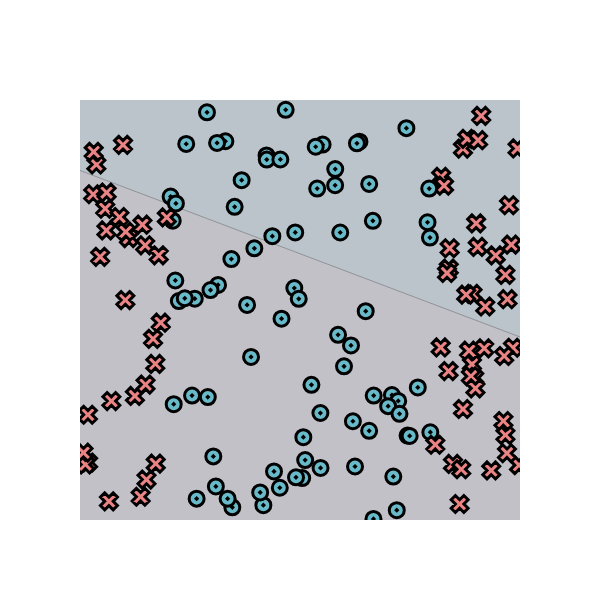
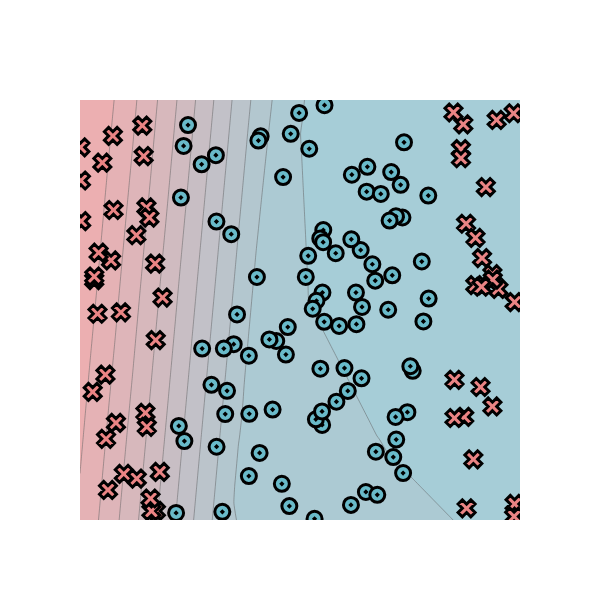
change png in readme

Changed region(s): [[0.12, 0.15, 0.87, 0.87]]

diff --git a/README.md b/README.md
@@ -132,58 +132,59 @@ Epoch: 500/500, loss: 17.285960865418502, correct: 146
 ## Split
 PTS = 150, HIDDEN = 4, RATE = 0.5
 ![](./split.png)
+![](./split_loss.png)
 ```
 Epoch: 0/500, loss: 0, correct: 0
-Epoch: 10/500, loss: 105.40956806695668, correct: 82
-Epoch: 20/500, loss: 105.16311977665919, correct: 77
-Epoch: 30/500, loss: 105.0358300131099, correct: 74
-Epoch: 40/500, loss: 104.95398700149673, correct: 73
-Epoch: 50/500, loss: 104.89481482035535, correct: 73
-Epoch: 60/500, loss: 104.84504207500366, correct: 73
-Epoch: 70/500, loss: 104.79972409122652, correct: 72
-Epoch: 80/500, loss: 104.75396865967625, correct: 72
-Epoch: 90/500, loss: 104.71048725100809, correct: 72
-Epoch: 100/500, loss: 104.67080217413678, correct: 72
-Epoch: 110/500, loss: 104.63259713965485, correct: 72
-Epoch: 120/500, loss: 104.59375666925584, correct: 72
-Epoch: 130/500, loss: 104.55585767889825, correct: 72
-Epoch: 140/500, loss: 104.52433422140477, correct: 72
-Epoch: 150/500, loss: 104.49319208765563, correct: 72
-Epoch: 160/500, loss: 104.46285701189619, correct: 72
-Epoch: 170/500, loss: 104.43408621776575, correct: 72
-Epoch: 180/500, loss: 104.40848477159437, correct: 73
-Epoch: 190/500, loss: 104.38365073874444, correct: 74
-Epoch: 200/500, loss: 104.35909308884713, correct: 74
-Epoch: 210/500, loss: 104.33432688684658, correct: 73
-Epoch: 220/500, loss: 104.31121792003513, correct: 74
-Epoch: 230/500, loss: 104.28894260939825, correct: 74
-Epoch: 240/500, loss: 104.26810375377413, correct: 74
-Epoch: 250/500, loss: 104.2465353220808, correct: 75
-Epoch: 260/500, loss: 104.22394025051658, correct: 75
-Epoch: 270/500, loss: 104.20175872057037, correct: 75
-Epoch: 280/500, loss: 104.18100673407336, correct: 77
-Epoch: 290/500, loss: 104.15987100243383, correct: 77
-Epoch: 300/500, loss: 104.13818414814992, correct: 77
-Epoch: 310/500, loss: 104.11663697207553, correct: 77
-Epoch: 320/500, loss: 104.09434774635291, correct: 78
-Epoch: 330/500, loss: 104.06665426516868, correct: 78
-Epoch: 340/500, loss: 104.03027258686207, correct: 78
-Epoch: 350/500, loss: 103.98594111920323, correct: 79
-Epoch: 360/500, loss: 103.94740283653357, correct: 79
-Epoch: 370/500, loss: 103.90480104288568, correct: 79
-Epoch: 380/500, loss: 103.86236353474646, correct: 81
-Epoch: 390/500, loss: 103.8206408533459, correct: 81
-Epoch: 400/500, loss: 103.75241333412129, correct: 81
-Epoch: 410/500, loss: 103.63110938448062, correct: 82
-Epoch: 420/500, loss: 103.52996695460521, correct: 84
-Epoch: 430/500, loss: 103.47187029948928, correct: 83
-Epoch: 440/500, loss: 103.42782647732716, correct: 83
-Epoch: 450/500, loss: 103.38783502819425, correct: 83
-Epoch: 460/500, loss: 103.34956202837746, correct: 83
-Epoch: 470/500, loss: 103.3134220690924, correct: 83
-Epoch: 480/500, loss: 103.27849663120747, correct: 84
-Epoch: 490/500, loss: 103.2434219712971, correct: 84
-Epoch: 500/500, loss: 103.20812583678166, correct: 85
+Epoch: 10/500, loss: 111.52667867392988, correct: 58
+Epoch: 20/500, loss: 101.25873741708465, correct: 119
+Epoch: 30/500, loss: 98.3395717965641, correct: 92
+Epoch: 40/500, loss: 97.42557925669496, correct: 92
+Epoch: 50/500, loss: 97.08929791142359, correct: 92
+Epoch: 60/500, loss: 96.8350050637598, correct: 92
+Epoch: 70/500, loss: 96.59423058539409, correct: 92
+Epoch: 80/500, loss: 96.34906545812032, correct: 92
+Epoch: 90/500, loss: 96.10289957997813, correct: 92
+Epoch: 100/500, loss: 95.84424101986326, correct: 92
+Epoch: 110/500, loss: 95.58949583727698, correct: 92
+Epoch: 120/500, loss: 95.32876936318844, correct: 92
+Epoch: 130/500, loss: 95.05943796636899, correct: 92
+Epoch: 140/500, loss: 94.78422342264645, correct: 93
+Epoch: 150/500, loss: 94.50723899255476, correct: 95
+Epoch: 160/500, loss: 94.22450597534127, correct: 95
+Epoch: 170/500, loss: 93.9391324316373, correct: 100
+Epoch: 180/500, loss: 93.64700697414804, correct: 102
+Epoch: 190/500, loss: 93.3469651563991, correct: 104
+Epoch: 200/500, loss: 93.0416072670887, correct: 105
+Epoch: 210/500, loss: 92.72989034091306, correct: 108
+Epoch: 220/500, loss: 92.41318264453852, correct: 110
+Epoch: 230/500, loss: 92.0921211893013, correct: 113
+Epoch: 240/500, loss: 91.76868472672507, correct: 114
+Epoch: 250/500, loss: 91.44079004597793, correct: 114
+Epoch: 260/500, loss: 91.10593189940471, correct: 116
+Epoch: 270/500, loss: 90.76759924933465, correct: 116
+Epoch: 280/500, loss: 90.42895895627998, correct: 116
+Epoch: 290/500, loss: 90.08723894257103, correct: 117
+Epoch: 300/500, loss: 89.7419227915818, correct: 119
+Epoch: 310/500, loss: 89.39444322770568, correct: 118
+Epoch: 320/500, loss: 89.04118073715604, correct: 118
+Epoch: 330/500, loss: 88.68296506377422, correct: 118
+Epoch: 340/500, loss: 88.32958824267476, correct: 118
+Epoch: 350/500, loss: 87.9750391800167, correct: 118
+Epoch: 360/500, loss: 87.61562583599726, correct: 119
+Epoch: 370/500, loss: 87.25792446463507, correct: 120
+Epoch: 380/500, loss: 86.90109315487645, correct: 121
+Epoch: 390/500, loss: 86.5427619086892, correct: 122
+Epoch: 400/500, loss: 86.18782462232568, correct: 122
+Epoch: 410/500, loss: 85.83716974922862, correct: 122
+Epoch: 420/500, loss: 85.48847569045888, correct: 121
+Epoch: 430/500, loss: 85.13681007593394, correct: 122
+Epoch: 440/500, loss: 84.7874532231181, correct: 121
+Epoch: 450/500, loss: 84.44708173991353, correct: 121
+Epoch: 460/500, loss: 84.1113651861201, correct: 121
+Epoch: 470/500, loss: 83.78445100857445, correct: 121
+Epoch: 480/500, loss: 83.46805039197984, correct: 120
+Epoch: 490/500, loss: 83.15808699920379, correct: 120
+Epoch: 500/500, loss: 82.85035188112373, correct: 120
 ```
 
 ## Xor
@@ -192,54 +193,54 @@ PTS = 150, HIDDEN = 4, RATE = 0.5
 ![](./xor_loss.png)
 ```
 Epoch: 0/500, loss: 0, correct: 0
-Epoch: 10/500, loss: 114.18948340149596, correct: 77
-Epoch: 20/500, loss: 107.66512386822835, correct: 77
-Epoch: 30/500, loss: 105.21969565669846, correct: 77
-Epoch: 40/500, loss: 104.35751747660193, correct: 77
-Epoch: 50/500, loss: 104.06418340921086, correct: 77
-Epoch: 60/500, loss: 103.96636981660139, correct: 77
-Epoch: 70/500, loss: 103.93411906630276, correct: 77
-Epoch: 80/500, loss: 103.92355269566458, correct: 77
-Epoch: 90/500, loss: 103.92010320046914, correct: 77
-Epoch: 100/500, loss: 103.9189793642636, correct: 77
-Epoch: 110/500, loss: 103.91861364379056, correct: 77
-Epoch: 120/500, loss: 103.91849470859933, correct: 77
-Epoch: 130/500, loss: 103.91845604439148, correct: 77
-Epoch: 140/500, loss: 103.91844347786108, correct: 77
-Epoch: 150/500, loss: 103.91843939401956, correct: 77
-Epoch: 160/500, loss: 103.91843806695358, correct: 77
-Epoch: 170/500, loss: 103.91843763573345, correct: 77
-Epoch: 180/500, loss: 103.91843749561505, correct: 77
-Epoch: 190/500, loss: 103.91843745008647, correct: 77
-Epoch: 200/500, loss: 103.91843743529286, correct: 77
-Epoch: 210/500, loss: 103.91843743048595, correct: 77
-Epoch: 220/500, loss: 103.9184374289238, correct: 77
-Epoch: 230/500, loss: 103.91843742841644, correct: 77
-Epoch: 240/500, loss: 103.91843742825168, correct: 77
-Epoch: 250/500, loss: 103.91843742819813, correct: 77
-Epoch: 260/500, loss: 103.91843742818051, correct: 77
-Epoch: 270/500, loss: 103.91843742817481, correct: 77
-Epoch: 280/500, loss: 103.91843742817298, correct: 77
-Epoch: 290/500, loss: 103.9184374281723, correct: 77
-Epoch: 300/500, loss: 103.91843742817215, correct: 77
-Epoch: 310/500, loss: 103.91843742817211, correct: 77
-Epoch: 320/500, loss: 103.91843742817197, correct: 77
-Epoch: 330/500, loss: 103.91843742817223, correct: 77
-Epoch: 340/500, loss: 103.91843742817234, correct: 77
-Epoch: 350/500, loss: 103.91843742817201, correct: 77
-Epoch: 360/500, loss: 103.91843742817211, correct: 77
-Epoch: 370/500, loss: 103.91843742817227, correct: 77
-Epoch: 380/500, loss: 103.91843742817197, correct: 77
-Epoch: 390/500, loss: 103.91843742817218, correct: 77
-Epoch: 400/500, loss: 103.91843742817214, correct: 77
-Epoch: 410/500, loss: 103.9184374281724, correct: 77
-Epoch: 420/500, loss: 103.91843742817228, correct: 77
-Epoch: 430/500, loss: 103.91843742817188, correct: 77
-Epoch: 440/500, loss: 103.91843742817245, correct: 77
-Epoch: 450/500, loss: 103.91843742817213, correct: 77
-Epoch: 460/500, loss: 103.91843742817206, correct: 77
-Epoch: 470/500, loss: 103.91843742817207, correct: 77
-Epoch: 480/500, loss: 103.91843742817235, correct: 77
-Epoch: 490/500, loss: 103.91843742817218, correct: 77
-Epoch: 500/500, loss: 103.91843742817223, correct: 77
+Epoch: 10/500, loss: 110.16389637775119, correct: 68
+Epoch: 20/500, loss: 103.51900189524757, correct: 68
+Epoch: 30/500, loss: 102.49956783783188, correct: 91
+Epoch: 40/500, loss: 102.07576670781596, correct: 97
+Epoch: 50/500, loss: 101.87343881697345, correct: 95
+Epoch: 60/500, loss: 101.75226988277296, correct: 95
+Epoch: 70/500, loss: 101.66867115313231, correct: 96
+Epoch: 80/500, loss: 101.60028239284314, correct: 96
+Epoch: 90/500, loss: 101.53986380177402, correct: 96
+Epoch: 100/500, loss: 101.48137391738992, correct: 96
+Epoch: 110/500, loss: 101.42279629324322, correct: 96
+Epoch: 120/500, loss: 101.36441548649196, correct: 96
+Epoch: 130/500, loss: 101.30632796473334, correct: 96
+Epoch: 140/500, loss: 101.24725468366965, correct: 96
+Epoch: 150/500, loss: 101.18861593007753, correct: 96
+Epoch: 160/500, loss: 101.13255487982315, correct: 96
+Epoch: 170/500, loss: 101.07594145560257, correct: 96
+Epoch: 180/500, loss: 101.01778262773756, correct: 96
+Epoch: 190/500, loss: 100.95878557564815, correct: 96
+Epoch: 200/500, loss: 100.89976316409467, correct: 96
+Epoch: 210/500, loss: 100.83993071282929, correct: 96
+Epoch: 220/500, loss: 100.77954486592974, correct: 95
+Epoch: 230/500, loss: 100.71780883384162, correct: 94
+Epoch: 240/500, loss: 100.65436311546098, correct: 94
+Epoch: 250/500, loss: 100.58920448216355, correct: 94
+Epoch: 260/500, loss: 100.52222873747564, correct: 94
+Epoch: 270/500, loss: 100.45279655480843, correct: 94
+Epoch: 280/500, loss: 100.38099068004705, correct: 94
+Epoch: 290/500, loss: 100.3058791350147, correct: 94
+Epoch: 300/500, loss: 100.22852783943482, correct: 94
+Epoch: 310/500, loss: 100.14885965841994, correct: 94
+Epoch: 320/500, loss: 100.06747360454374, correct: 94
+Epoch: 330/500, loss: 99.98408399170891, correct: 94
+Epoch: 340/500, loss: 99.89846759465814, correct: 94
+Epoch: 350/500, loss: 99.80970115959549, correct: 94
+Epoch: 360/500, loss: 99.71821492737875, correct: 94
+Epoch: 370/500, loss: 99.6232451652893, correct: 94
+Epoch: 380/500, loss: 99.52323843738458, correct: 94
+Epoch: 390/500, loss: 99.41973258956688, correct: 94
+Epoch: 400/500, loss: 99.31249499545362, correct: 94
+Epoch: 410/500, loss: 99.20132661562752, correct: 94
+Epoch: 420/500, loss: 99.0873215907137, correct: 94
+Epoch: 430/500, loss: 98.96992772624732, correct: 94
+Epoch: 440/500, loss: 98.84827137432382, correct: 94
+Epoch: 450/500, loss: 98.72212491310468, correct: 94
+Epoch: 460/500, loss: 98.59133273580862, correct: 94
+Epoch: 470/500, loss: 98.45598990946287, correct: 95
+Epoch: 480/500, loss: 98.31605996092591, correct: 95
+Epoch: 490/500, loss: 98.16792236441015, correct: 95
+Epoch: 500/500, loss: 98.01640580602401, correct: 95
 ```
